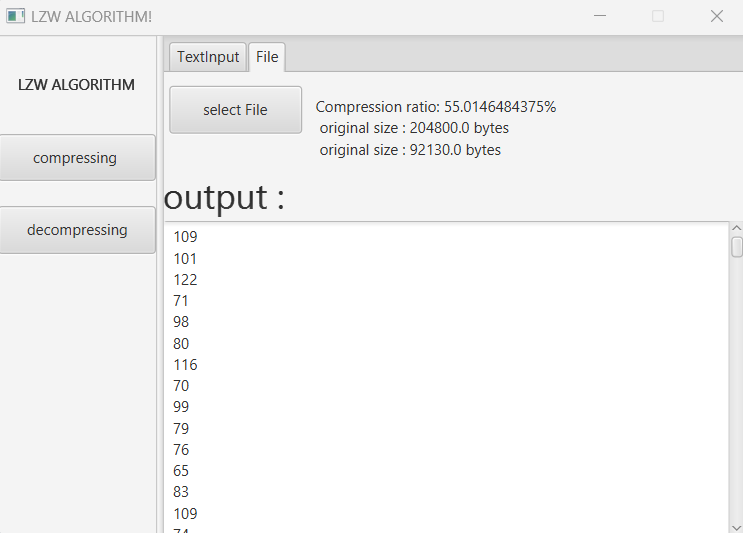
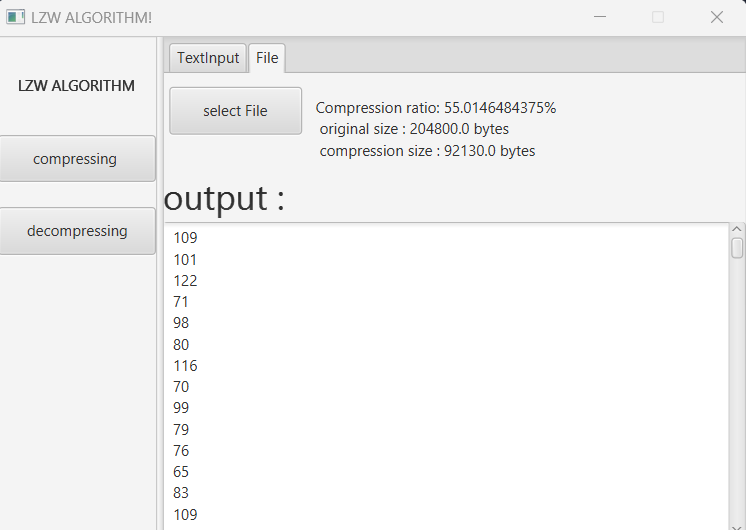
update pic

diff --git a/src/main/java/com/lzw/algorithm/LZWCompression.java b/src/main/java/com/lzw/algorithm/LZWCompression.java
@@ -93,7 +93,7 @@ public class LZWCompression {
 
             double compressionRatio = (1 - (compressedFileSize / originalFileSize)) * 100;
 
-            return  "Compression ratio: " + compressionRatio + "%" + "\n original size : " + originalFileSize + " bytes" + "\n original size : " + compressedFileSize + " bytes";
+            return  "Compression ratio: " + compressionRatio + "%" + "\n original size : " + originalFileSize + " bytes" + "\n compression size : " + compressedFileSize + " bytes";
 
 
 
